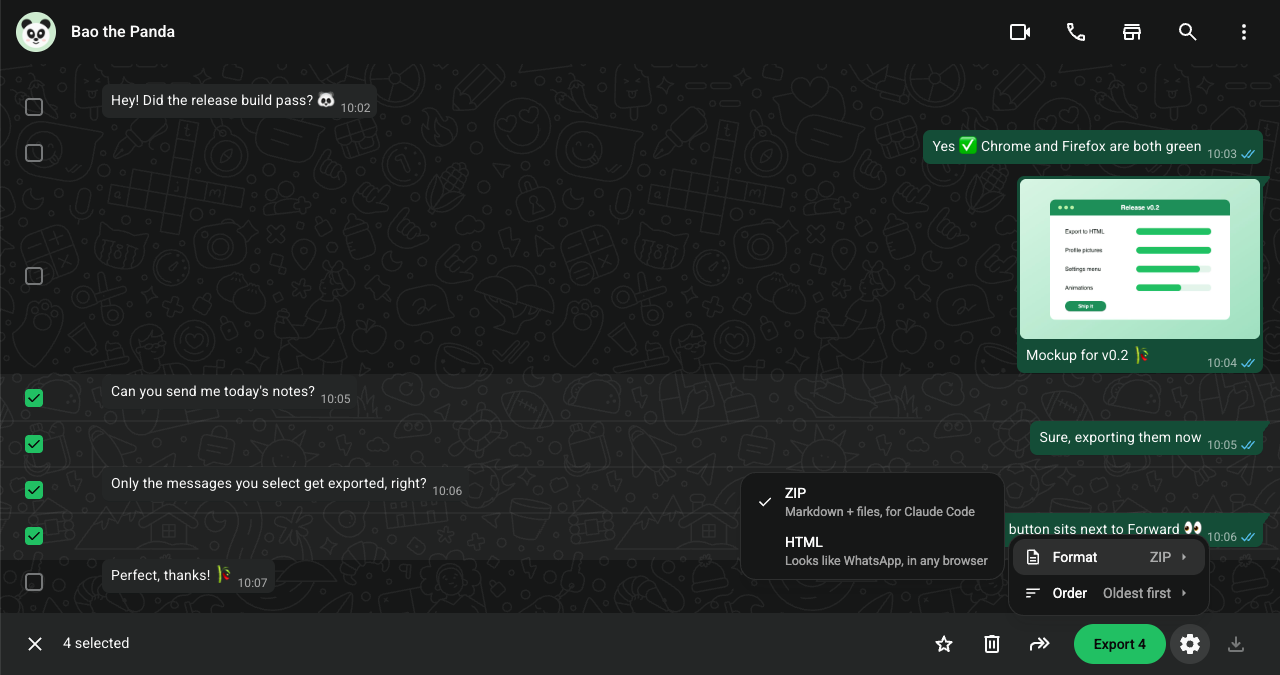
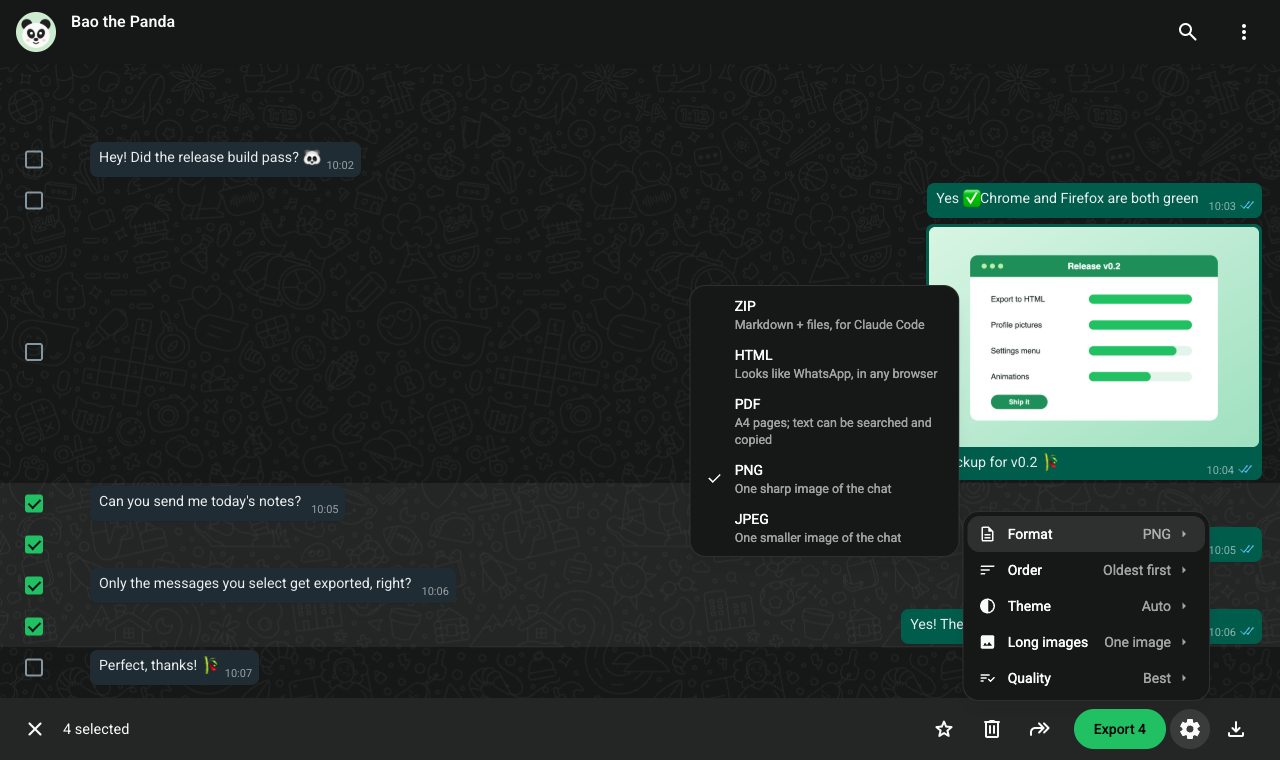
docs: re-capture the WhatsApp screenshot with every format and setting
The old screenshot predated PDF and images: its menu showed only ZIP/HTML and
Format/Order. The new light and dark captures show Format open on ZIP, HTML, PDF,
PNG and JPEG beside Order, Theme, Long images and Quality.

The site declares the new 1280x760 size (a test now checks it against the PNG),
re-aims the animated click at the Export button, and moves the "saved" notice off
the larger menu, naming a .png to match.

diff --git a/site/style.css b/site/style.css
@@ -191,23 +191,23 @@ footer a { color: #c9ccd1; }
 /* The frame flattens as it scrolls in (main.js sets --tilt and --scale). */
 .js .window { transform: rotateX(var(--tilt, 18deg)) scale(var(--scale, .94)); }
 
-/* A cursor clicks the real Export button (87.5% / 95.3% of the screenshot), files fly out, a notice appears. */
+/* A cursor clicks the real Export button (87.5% / 95.9% of the screenshot), files fly out, a notice appears. */
 .js .fx { display: block; position: absolute; inset: 0; pointer-events: none; }
 .js .cursor { position: absolute; width: 22px; height: 22px; animation: cursor 7s infinite both; }
 @keyframes cursor {
   0% { left: 55%; top: 50%; opacity: 0; }
   8% { opacity: 1; }
-  35% { left: 87.2%; top: 94.6%; transform: none; }
-  40% { left: 87.2%; top: 94.6%; transform: scale(.85); }
-  44%, 80% { left: 87.2%; top: 94.6%; transform: none; opacity: 1; }
-  92%, 100% { left: 87.2%; top: 94.6%; opacity: 0; }
+  35% { left: 87.2%; top: 95.3%; transform: none; }
+  40% { left: 87.2%; top: 95.3%; transform: scale(.85); }
+  44%, 80% { left: 87.2%; top: 95.3%; transform: none; opacity: 1; }
+  92%, 100% { left: 87.2%; top: 95.3%; opacity: 0; }
 }
 .js .ring {
-  position: absolute; left: 87.5%; top: 95.3%; width: 20px; height: 20px; margin: -10px 0 0 -10px;
+  position: absolute; left: 87.5%; top: 95.9%; width: 20px; height: 20px; margin: -10px 0 0 -10px;
   border: 2px solid var(--green); border-radius: 50%; animation: ring 7s infinite both;
 }
 @keyframes ring { 0%, 39% { opacity: 0; transform: scale(.5); } 40% { opacity: 1; } 55%, 100% { opacity: 0; transform: scale(5); } }
-.js .fly { position: absolute; left: 86.5%; top: 92%; width: 26px; height: 32px; }
+.js .fly { position: absolute; left: 86.5%; top: 92.6%; width: 26px; height: 32px; }
 .js .fly.a { animation: fly-a 7s infinite both; }
 .js .fly.b { animation: fly-b 7s infinite both; }
 .js .fly.c { animation: fly-c 7s infinite both; }
@@ -215,7 +215,7 @@ footer a { color: #c9ccd1; }
 @keyframes fly-b { 0%, 42% { opacity: 0; transform: none; } 45% { opacity: 1; } 62%, 100% { opacity: 0; transform: translate(-30px, -300px) rotate(8deg); } }
 @keyframes fly-c { 0%, 43% { opacity: 0; transform: none; } 46% { opacity: 1; } 64%, 100% { opacity: 0; transform: translate(40px, -240px) rotate(22deg); } }
 .js .toast {
-  position: absolute; right: 3%; bottom: 16%;
+  position: absolute; left: 21%; top: 29%;
   display: flex; gap: 10px; align-items: center; padding: 10px 14px 10px 10px;
   background: #111b21f2; border: 1px solid #2a3942; border-radius: 12px; box-shadow: 0 10px 30px #000a;
   color: #e9edef; font-size: 13px; text-align: left;
@@ -247,7 +247,7 @@ footer a { color: #c9ccd1; }
   .block { padding-top: 96px; }
   .steps, .formats, .two, .checks { grid-template-columns: 1fr; }
   .live iframe { height: 480px; }
-  .js .toast { right: 2%; bottom: 14%; font-size: 11px; padding: 6px 10px 6px 6px; }
+  .js .toast { left: 12%; top: 26%; font-size: 11px; padding: 6px 10px 6px 6px; }
   .final { padding: 110px 16px 80px; }
 }
 

diff --git a/site/index.html b/site/index.html
@@ -124,15 +124,15 @@
     <figure class="window" id="window">
       <div class="bar" aria-hidden="true"><i></i><i></i><i></i><span>web.whatsapp.com</span></div>
       <div class="shot">
-        <img src="img/whatsapp-menu-dark.png" width="1280" height="675"
-          alt="WhatsApp Web in Select messages mode with four messages ticked, the Export 4 button next to Forward, and its settings menu open on Format">
+        <img src="img/whatsapp-menu-dark.png" width="1280" height="760"
+          alt="WhatsApp Web in Select messages mode with four messages ticked, the Export 4 button next to Forward, and its settings menu open on Format, listing ZIP, HTML, PDF, PNG and JPEG beside Order, Theme, Long images and Quality">
         <div class="fx" aria-hidden="true">
           <div class="ring"></div>
-          <svg class="fly a" viewBox="0 0 78 96"><use href="#ic-md"/></svg>
-          <svg class="fly b" viewBox="0 0 78 96"><use href="#ic-zip"/></svg>
-          <svg class="fly c" viewBox="0 0 78 96"><use href="#ic-json"/></svg>
+          <svg class="fly a" viewBox="0 0 78 96"><use href="#ic-png"/></svg>
+          <svg class="fly b" viewBox="0 0 78 96"><use href="#ic-png"/></svg>
+          <svg class="fly c" viewBox="0 0 78 96"><use href="#ic-png"/></svg>
           <svg class="cursor" viewBox="0 0 24 24"><path d="M4 2l15 9-6.5 1.6L16 20l-2.8 1.3-3.4-7.3L4 18Z" fill="#fff" stroke="#000" stroke-width="1.2"/></svg>
-          <div class="toast"><svg viewBox="0 0 78 96"><use href="#ic-zip"/></svg><div>Bao the Panda-2026-10-24-1007.zip<small>4 messages · saved to Downloads</small></div></div>
+          <div class="toast"><svg viewBox="0 0 78 96"><use href="#ic-png"/></svg><div>Bao the Panda-2026-10-24-1007.png<small>4 messages · saved to Downloads</small></div></div>
         </div>
       </div>
       <figcaption>A fictional chat, made for this screenshot.</figcaption>

diff --git a/tests/site.test.ts b/tests/site.test.ts
@@ -92,6 +92,13 @@ describe("website build", () => {
     expect(doc.querySelector("footer")!.textContent).toMatch(/This website counts visits with Cloudflare Web Analytics/);
   });
 
+  it("declares the WhatsApp screenshot's real size, so the page never stretches it", () => {
+    const png = readFileSync(join(out, "img/whatsapp-menu-dark.png"));
+    const [width, height] = [png.readUInt32BE(16), png.readUInt32BE(20)]; // the PNG IHDR chunk
+    const img = doc.querySelector('img[src="img/whatsapp-menu-dark.png"]')!;
+    expect([img.getAttribute("width"), img.getAttribute("height")]).toEqual([String(width), String(height)]);
+  });
+
   it("describes every image and frame, and sandboxes the demo export", () => {
     for (const img of doc.querySelectorAll("img")) expect(img.getAttribute("alt")).not.toBeNull();
     const frame = doc.querySelector("iframe")!;

diff --git a/docs/demo/README.md b/docs/demo/README.md
@@ -5,7 +5,7 @@ Everything here is fictional and made for this project. No real chat, person, ph
 - `src/`: hand-drawn SVGs (Bao the Panda, Mei the red panda, the "Bamboo team" group, a sticker and an app mockup).
 - `assets/`: the media built from them by `pnpm demo:assets`. JPEG and WebP come from Chromium's canvas, so they carry no Exif. The voice note and video are generated by ffmpeg, without dates or encoder metadata. The PDF is written by hand.
 - `bamboo-team.html`: the "Bamboo team" chat (`scripts/demo/demo-chat.ts`) exported by the real HTML writer. `pnpm demo` regenerates it with `TZ=UTC` and `en-US`, plus `docs/images/html-export-*.png` (screenshots in headless Firefox).
-- `docs/images/whatsapp-menu-*.png`: WhatsApp Web in the live-testing browser. Every real message was hidden, and a fictional conversation with "Bao the Panda", built from these assets, was inserted before the capture.
+- `docs/images/whatsapp-menu-*.png`: WhatsApp Web in the live-testing browser, made by `scripts/live/capture-menu.mjs` (last on 2026-11-15). It removes every other pane, hides every real message, name and photo, draws a fictional conversation with "Bao the Panda" from these assets, opens the Export settings menu on Format, and refuses to capture while any text or image outside that allowlist is visible.
 
 - `src/banner.html` → `docs/images/banner.png`: the README banner, an ASCII "shader" render of our own chat-bubble-with-export-arrow symbol (not WhatsApp's logo). The generator was written with OpenAI Codex and reviewed here; `pnpm demo:banner` re-renders it. It is deterministic and loads nothing.
 

diff --git a/README.md b/README.md
@@ -10,7 +10,7 @@ Chrome/Chromium 111+, Firefox 140+ on desktop and Firefox 142+ on Android. Every
 
 <picture>
   <source media="(prefers-color-scheme: dark)" srcset="docs/images/whatsapp-menu-dark.png">
-  <img alt="WhatsApp Web in Select messages mode, with four messages ticked, the Export 4 button next to Forward, and its settings menu open on Format" src="docs/images/whatsapp-menu-light.png">
+  <img alt="WhatsApp Web in Select messages mode, with four messages ticked, the Export 4 button next to Forward, and its settings menu open on Format, listing ZIP, HTML, PDF, PNG and JPEG beside Order, Theme, Long images and Quality" src="docs/images/whatsapp-menu-light.png">
 </picture>
 
 <sub>A fictional chat, made for this screenshot. See [docs/demo](docs/demo/README.md).</sub>
